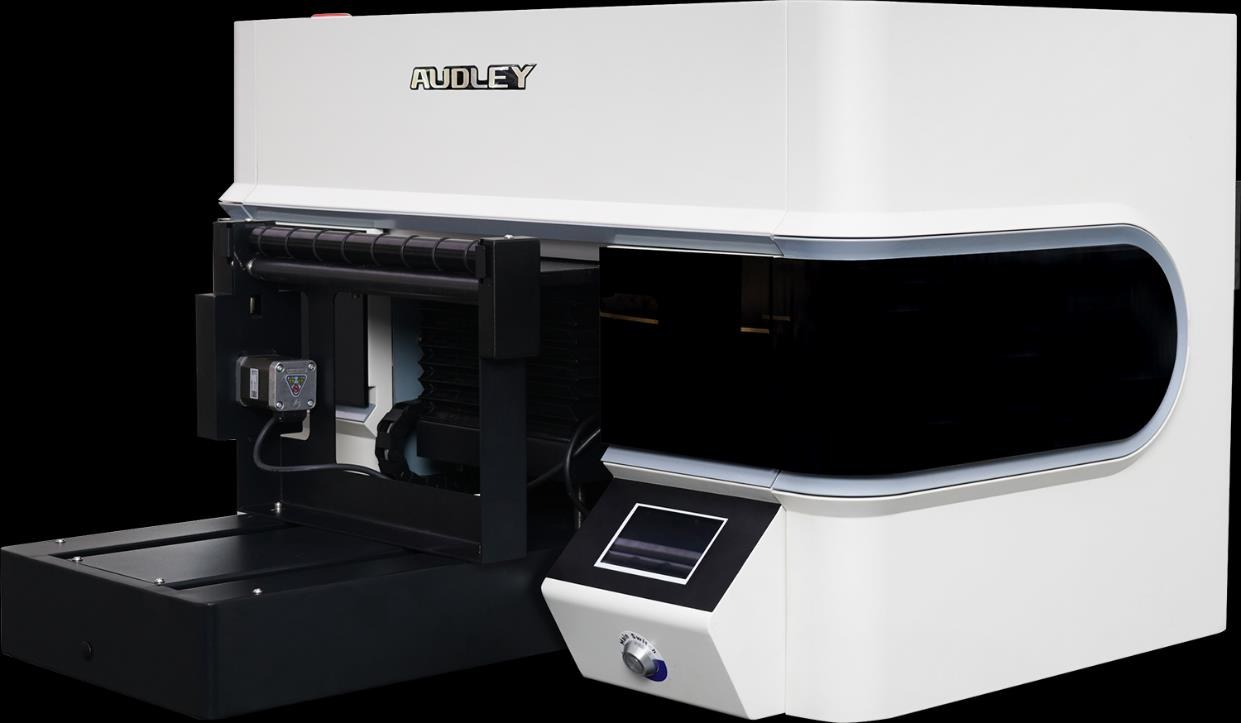
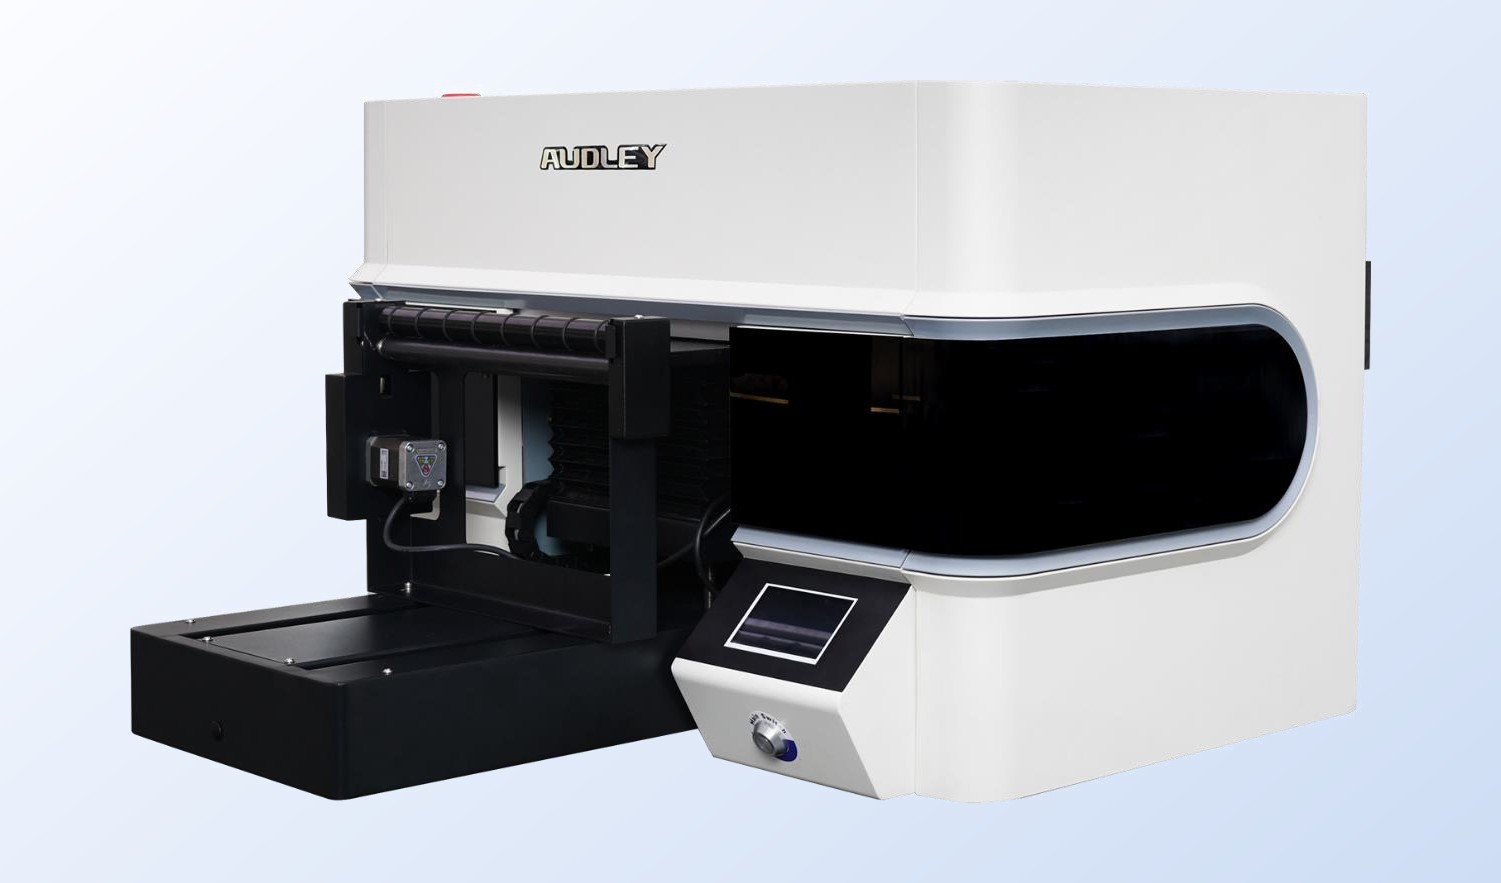
Новость об УФ-принтере: фото на светлом фоне как в руководстве
Учли маску прозрачности из PDF: принтер на светлом градиенте с полями
вместо чёрного фона; убрали тёмную плашку из стилей.

diff --git a/src/styles/articles/_uv-printer-feature.scss b/src/styles/articles/_uv-printer-feature.scss
@@ -188,17 +188,16 @@
       box-shadow: 0 14px 34px rgba(42, 15, 61, 0.18);
     }
 
-    // Ручки и чехлы сняты на белом фоне — ограничиваем ширину, чтобы не разъезжались
+    // Принтер, ручки и чехлы сняты на белом фоне — ограничиваем ширину, чтобы не разъезжались
+    &--1 img,
     &--2 img,
     &--4 img {
       max-width: 560px;
       box-shadow: none;
     }
 
-    // Главное фото принтера — на чёрном фоне (как в руководстве), остаётся тёмной плашкой со скруглением и тенью
     &--1 img {
-      max-width: 720px;
-      background: #000;
+      max-width: 680px;
     }
   }
 
